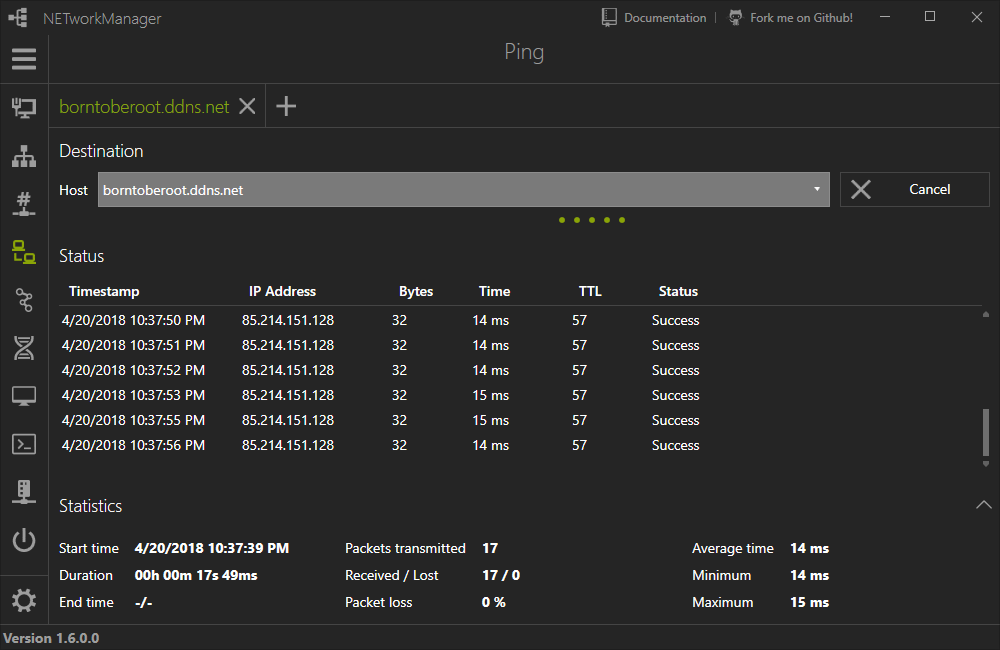
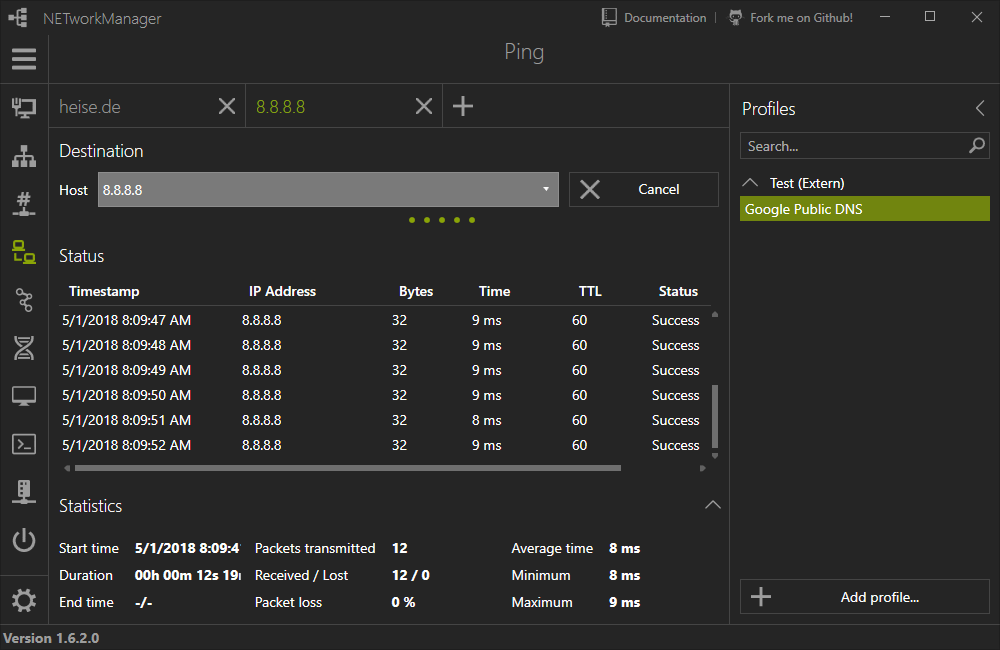
Update

diff --git a/Documentation/en-US/Application/IPScanner.md b/Documentation/en-US/Application/IPScanner.md
@@ -4,6 +4,6 @@
 
 ## Profile
 
-![IPScanner](../../_images/IPScanner_Profile.png)
+![IPScanner Profile](../../_images/IPScanner_Profile.png)
 
 [back](../README.md)

diff --git a/Documentation/en-US/Application/Traceroute.md b/Documentation/en-US/Application/Traceroute.md
@@ -2,4 +2,6 @@
 
 ![Traceroute](../../_images/Traceroute.png)
 
+![Traceroute Profile](../../_images/Traceroute_Profile.png)
+
 [back](../README.md)

diff --git a/Documentation/en-US/Application/Ping.md b/Documentation/en-US/Application/Ping.md
@@ -2,4 +2,6 @@
 
 ![Ping](../../_images/Ping.png)
 
+![Ping Profile](../../_images/Ping_Profile.png)
+
 [back](../README.md)
